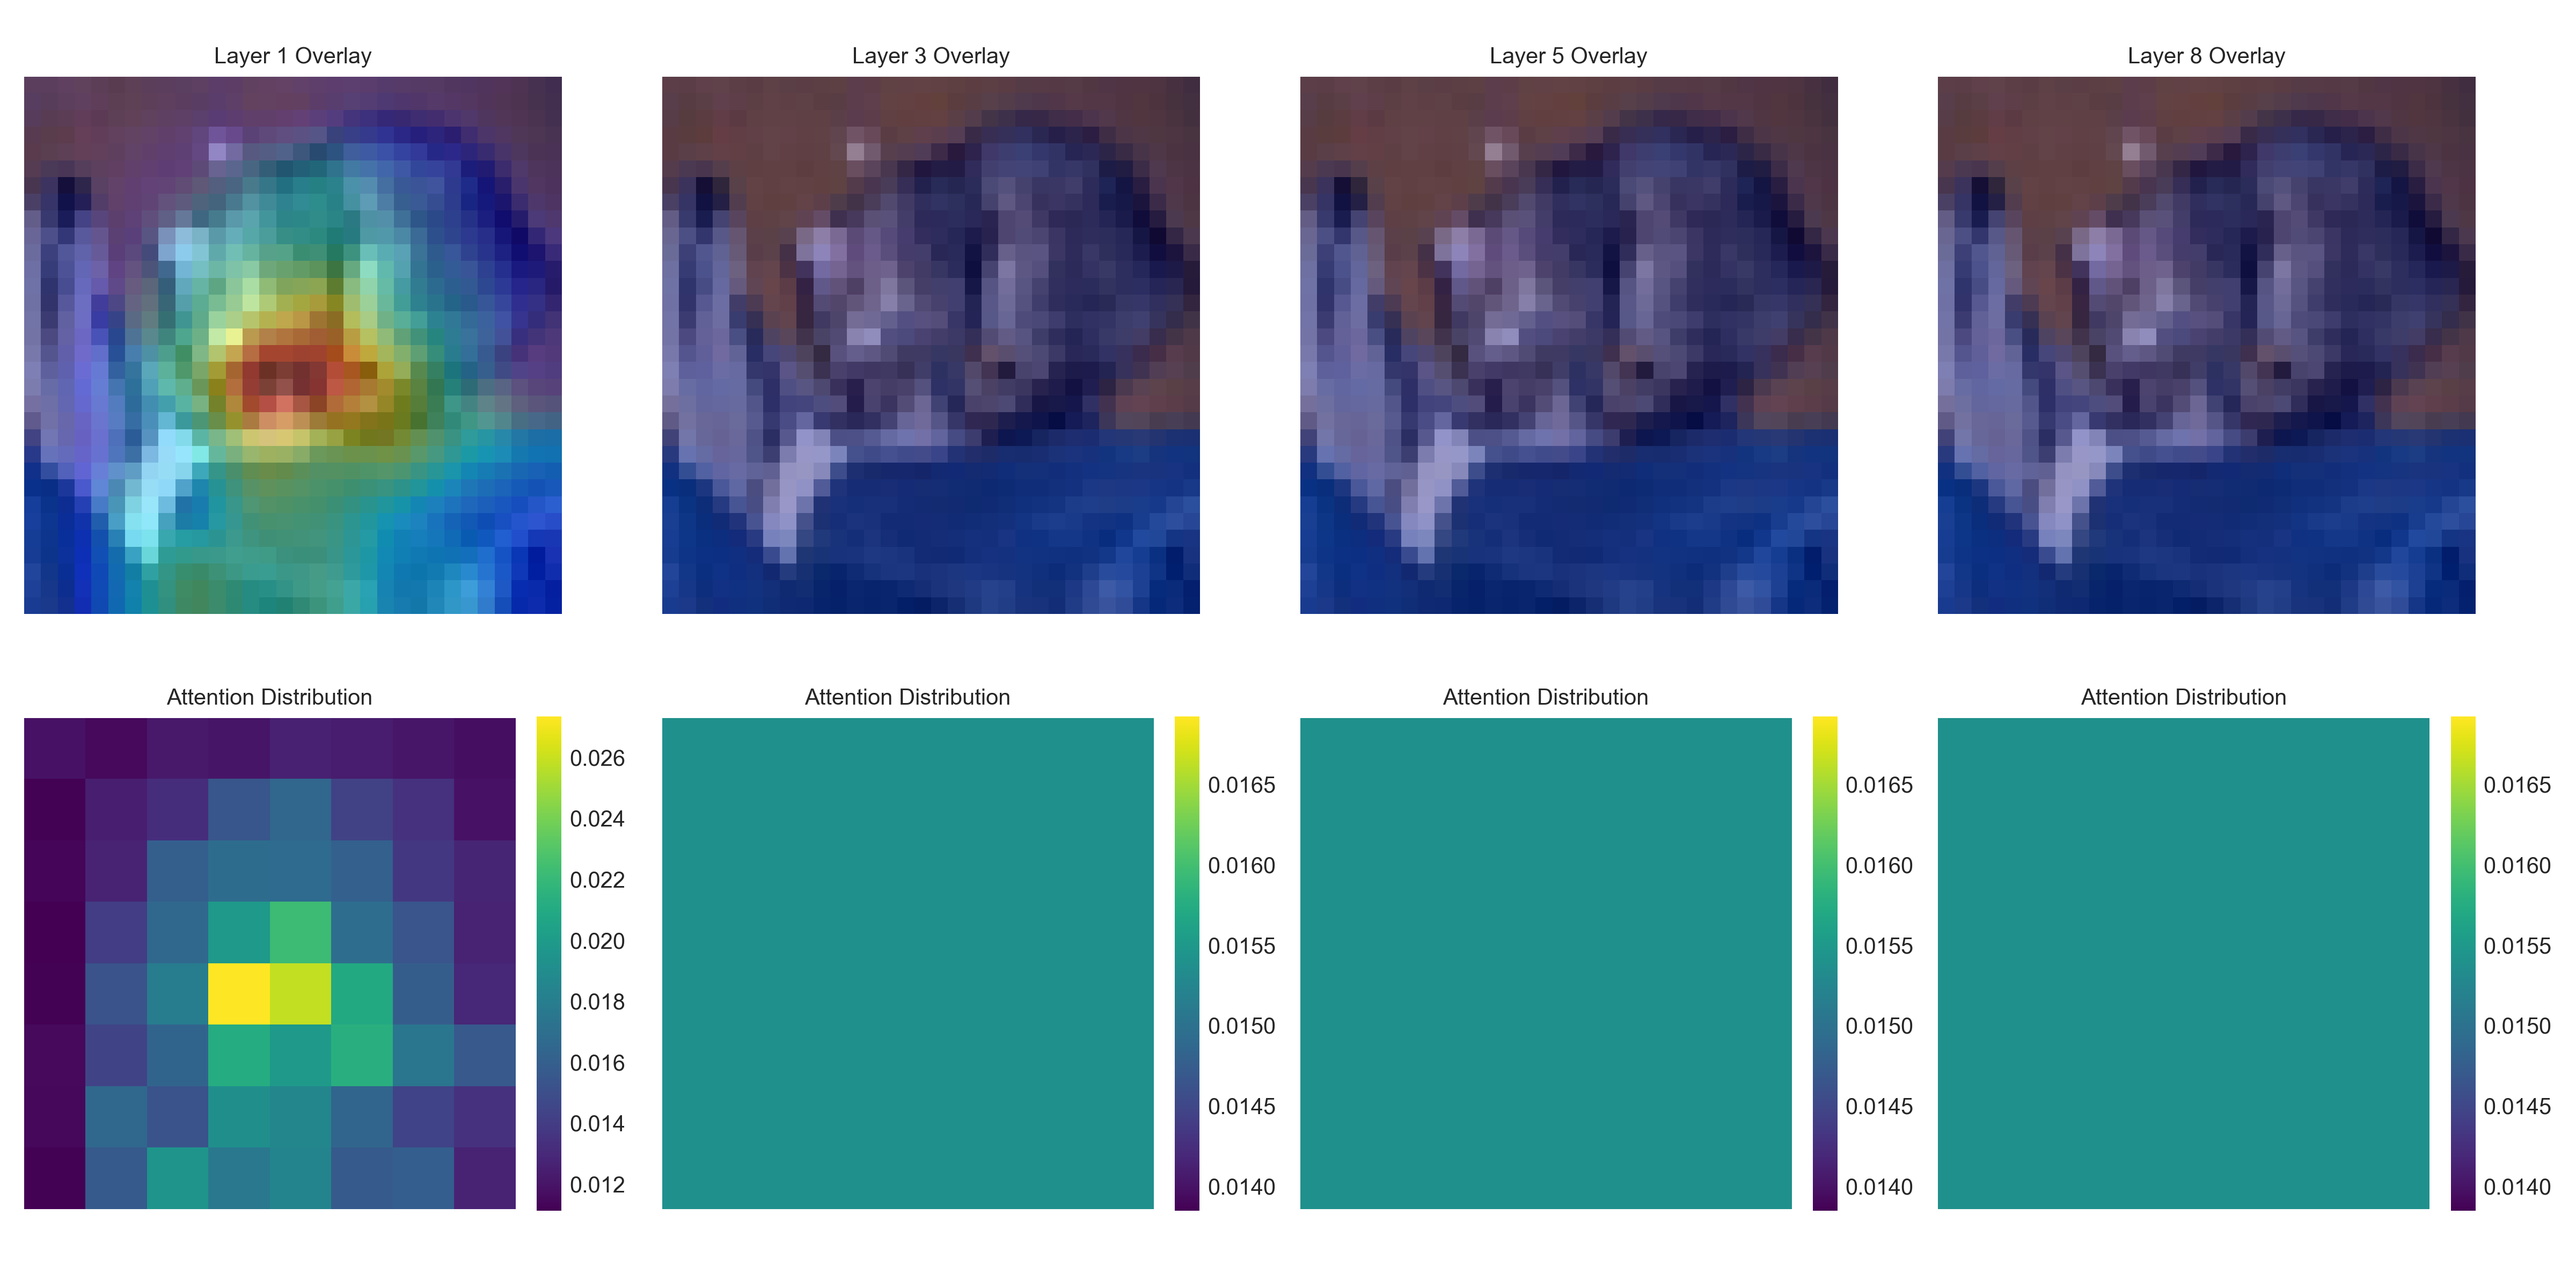
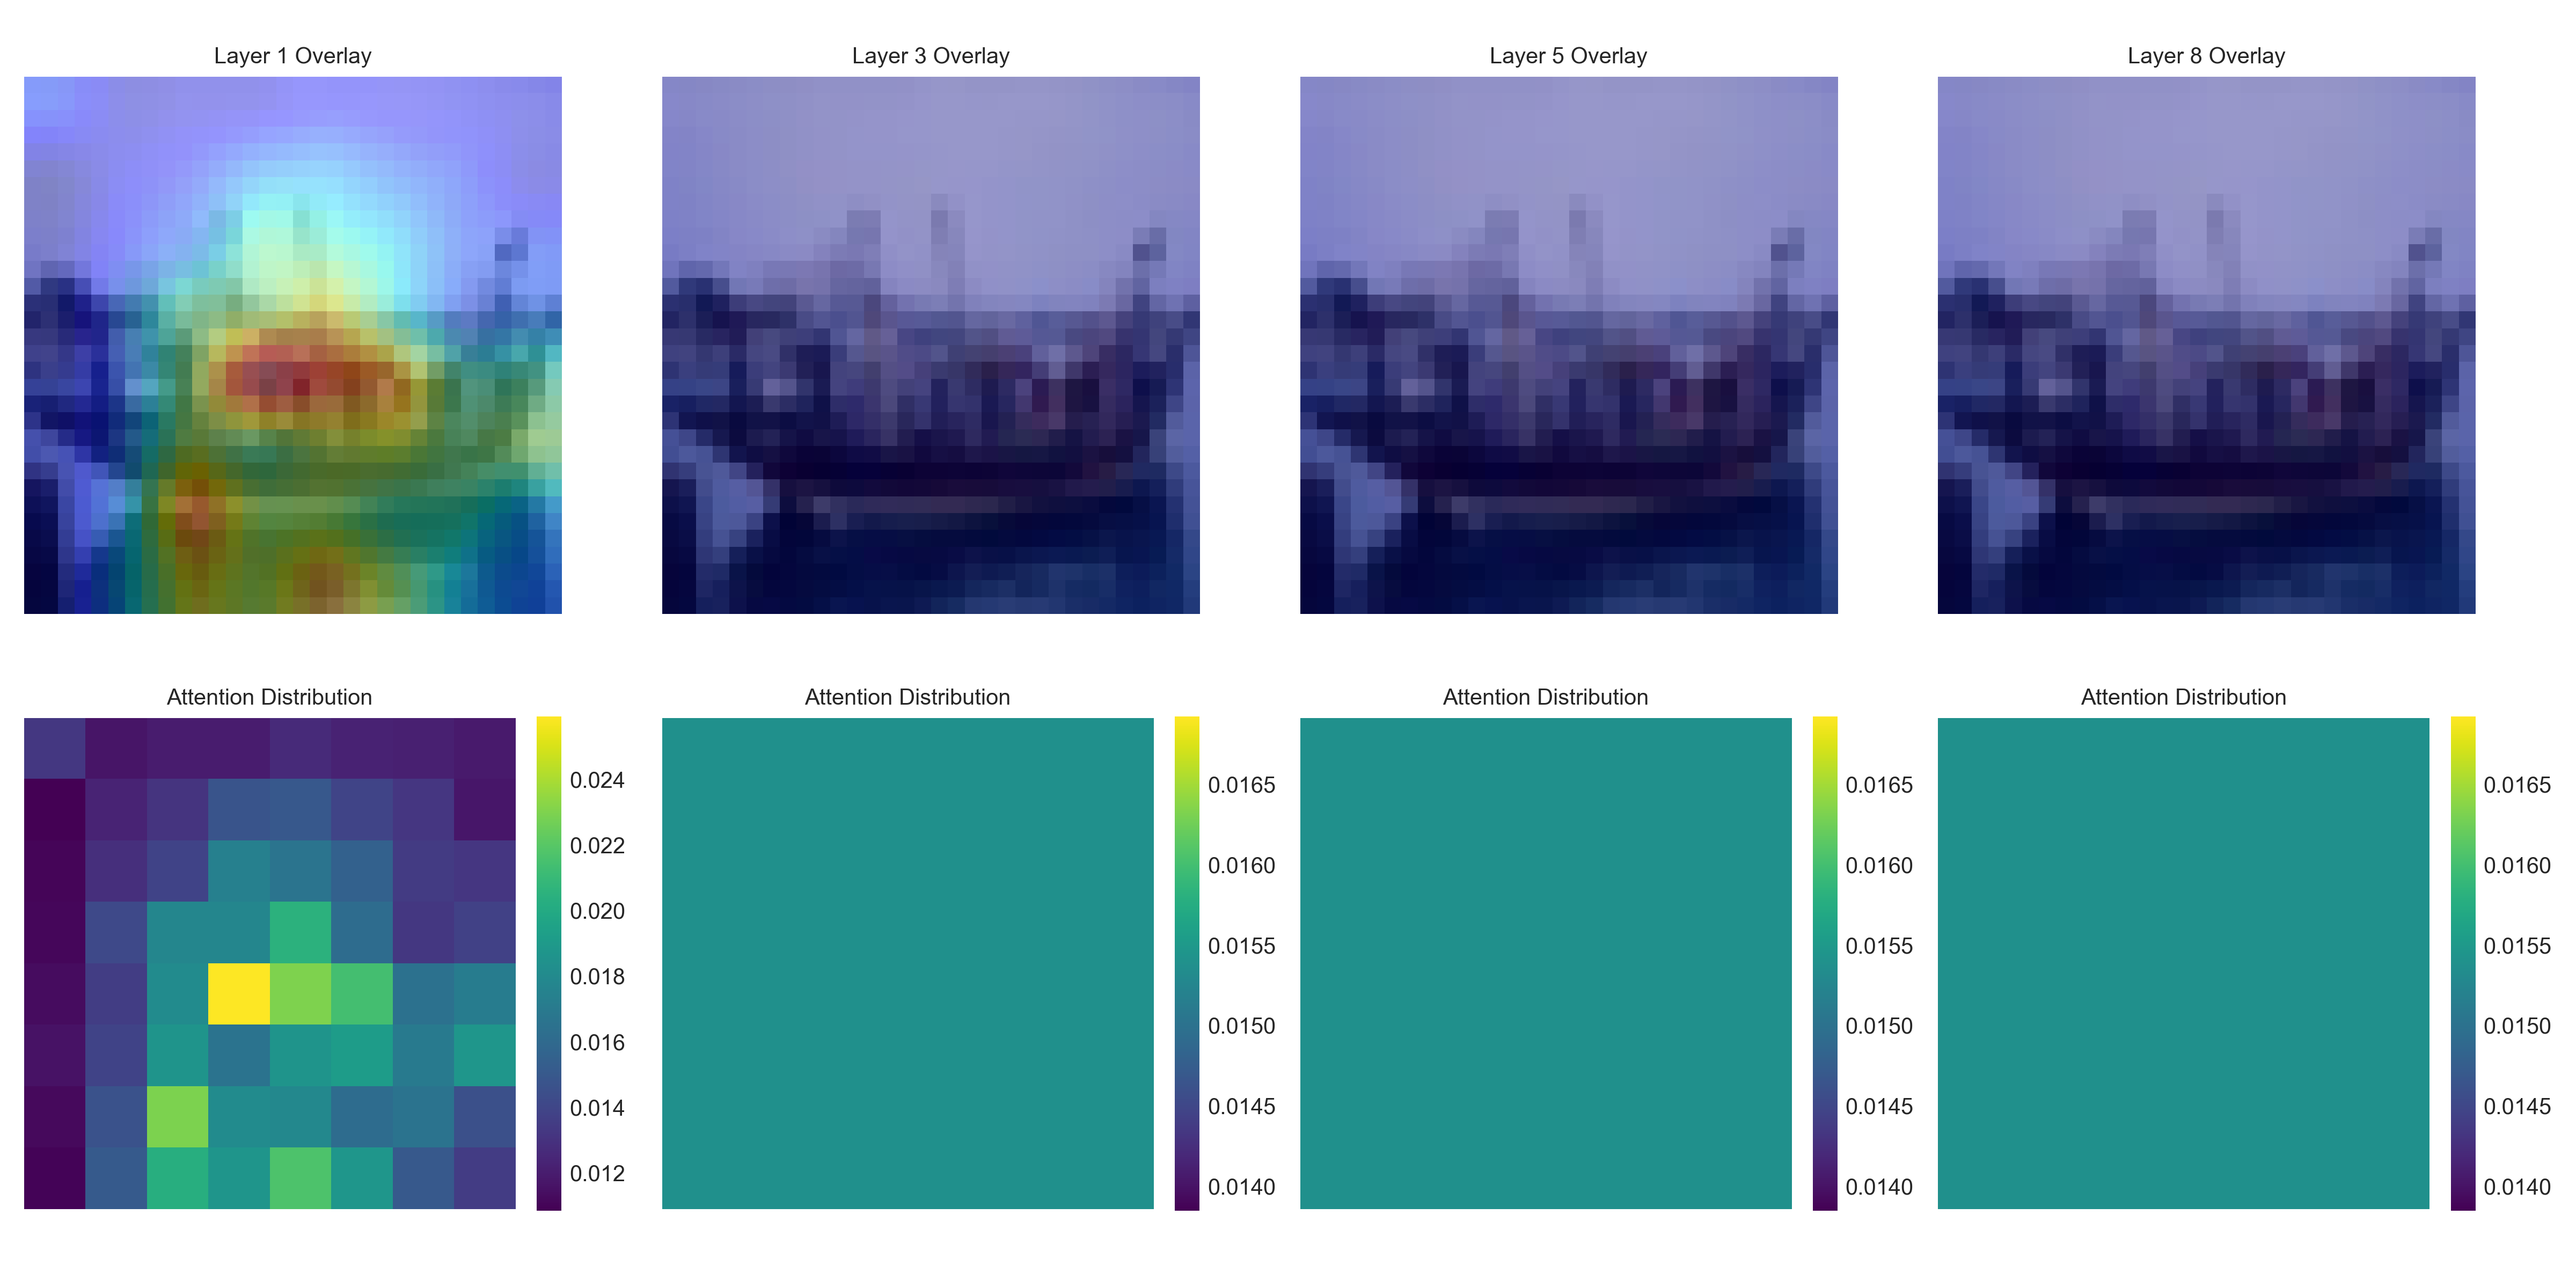
modify attention visualization function

diff --git a/utils/visualize.py b/utils/visualize.py
@@ -583,17 +583,47 @@ def generate_all_visualizations(vit_model_path, hybrid_model_path, config, devic
     print("\n3. Generating architecture comparison...")
     plot_architecture_comparison()
     
-    # 4. Attention maps
     print("\n4. Generating attention maps...")
+
     # Load hybrid model
     hybrid_model = HybridViT(config).to(device)
-    hybrid_model.load_state_dict(torch.load(hybrid_model_path, map_location=device))
+    missing, unexpected = hybrid_model.load_state_dict(
+        torch.load(hybrid_model_path, map_location=device),
+        strict=False
+    )
     
-    # Get a sample image
+    hybrid_model.eval()
+
+    # CIFAR-10 class names
+    classes = ['airplane','automobile','bird','cat','deer',
+           'dog','frog','horse','ship','truck']
+
+    transform = transforms.Compose([
+        transforms.ToTensor(),
+        transforms.Normalize((0.5, 0.5, 0.5), 
+                            (0.5, 0.5, 0.5))
+    ])
+
     test_dataset = datasets.CIFAR10('./data', train=False,
-                                    transform=transforms.ToTensor())
-    sample_image, _ = test_dataset[0]
-    
+                                transform=transform,
+                                download=True)
+
+    idx = 18
+    sample_image, label = test_dataset[idx]
+
+    # ------------------ Prediction ------------------
+    with torch.no_grad():
+        input_tensor = sample_image.unsqueeze(0).to(device)
+        outputs = hybrid_model(input_tensor)
+        _, pred = torch.max(outputs, 1)
+
+    pred_class = classes[pred.item()]
+    true_class = classes[label]
+
+    print(f"True Label: {true_class}")
+    print(f"Predicted : {pred_class}")
+
+    # ------------------ Attention ------------------
     visualize_attention_maps(hybrid_model, sample_image, device)
     
     # 5. Results table

diff --git a/create_presentation.py b/create_presentation.py
@@ -383,9 +383,9 @@ class PresentationCreator:
         p.space_after = Pt(12)
         
         findings = [
-            "CIFAR-10: +7.5% accuracy improvement (67.3% → 74.8%)",
-            "CIFAR-100: +6.6% accuracy improvement (42.1% → 48.7%)",
-            "9% faster training time despite 7% more parameters",
+            "CIFAR-10: +13% accuracy improvement (48.04% → 61.05%)",
+            "CIFAR-100: +8.3% accuracy improvement (14.73% → 23.02%)",
+            "9% faster training time ",
             "Gap is even larger with less training data (see next slide)",
             "Only minimal architecture change needed for big gains!"
         ]
